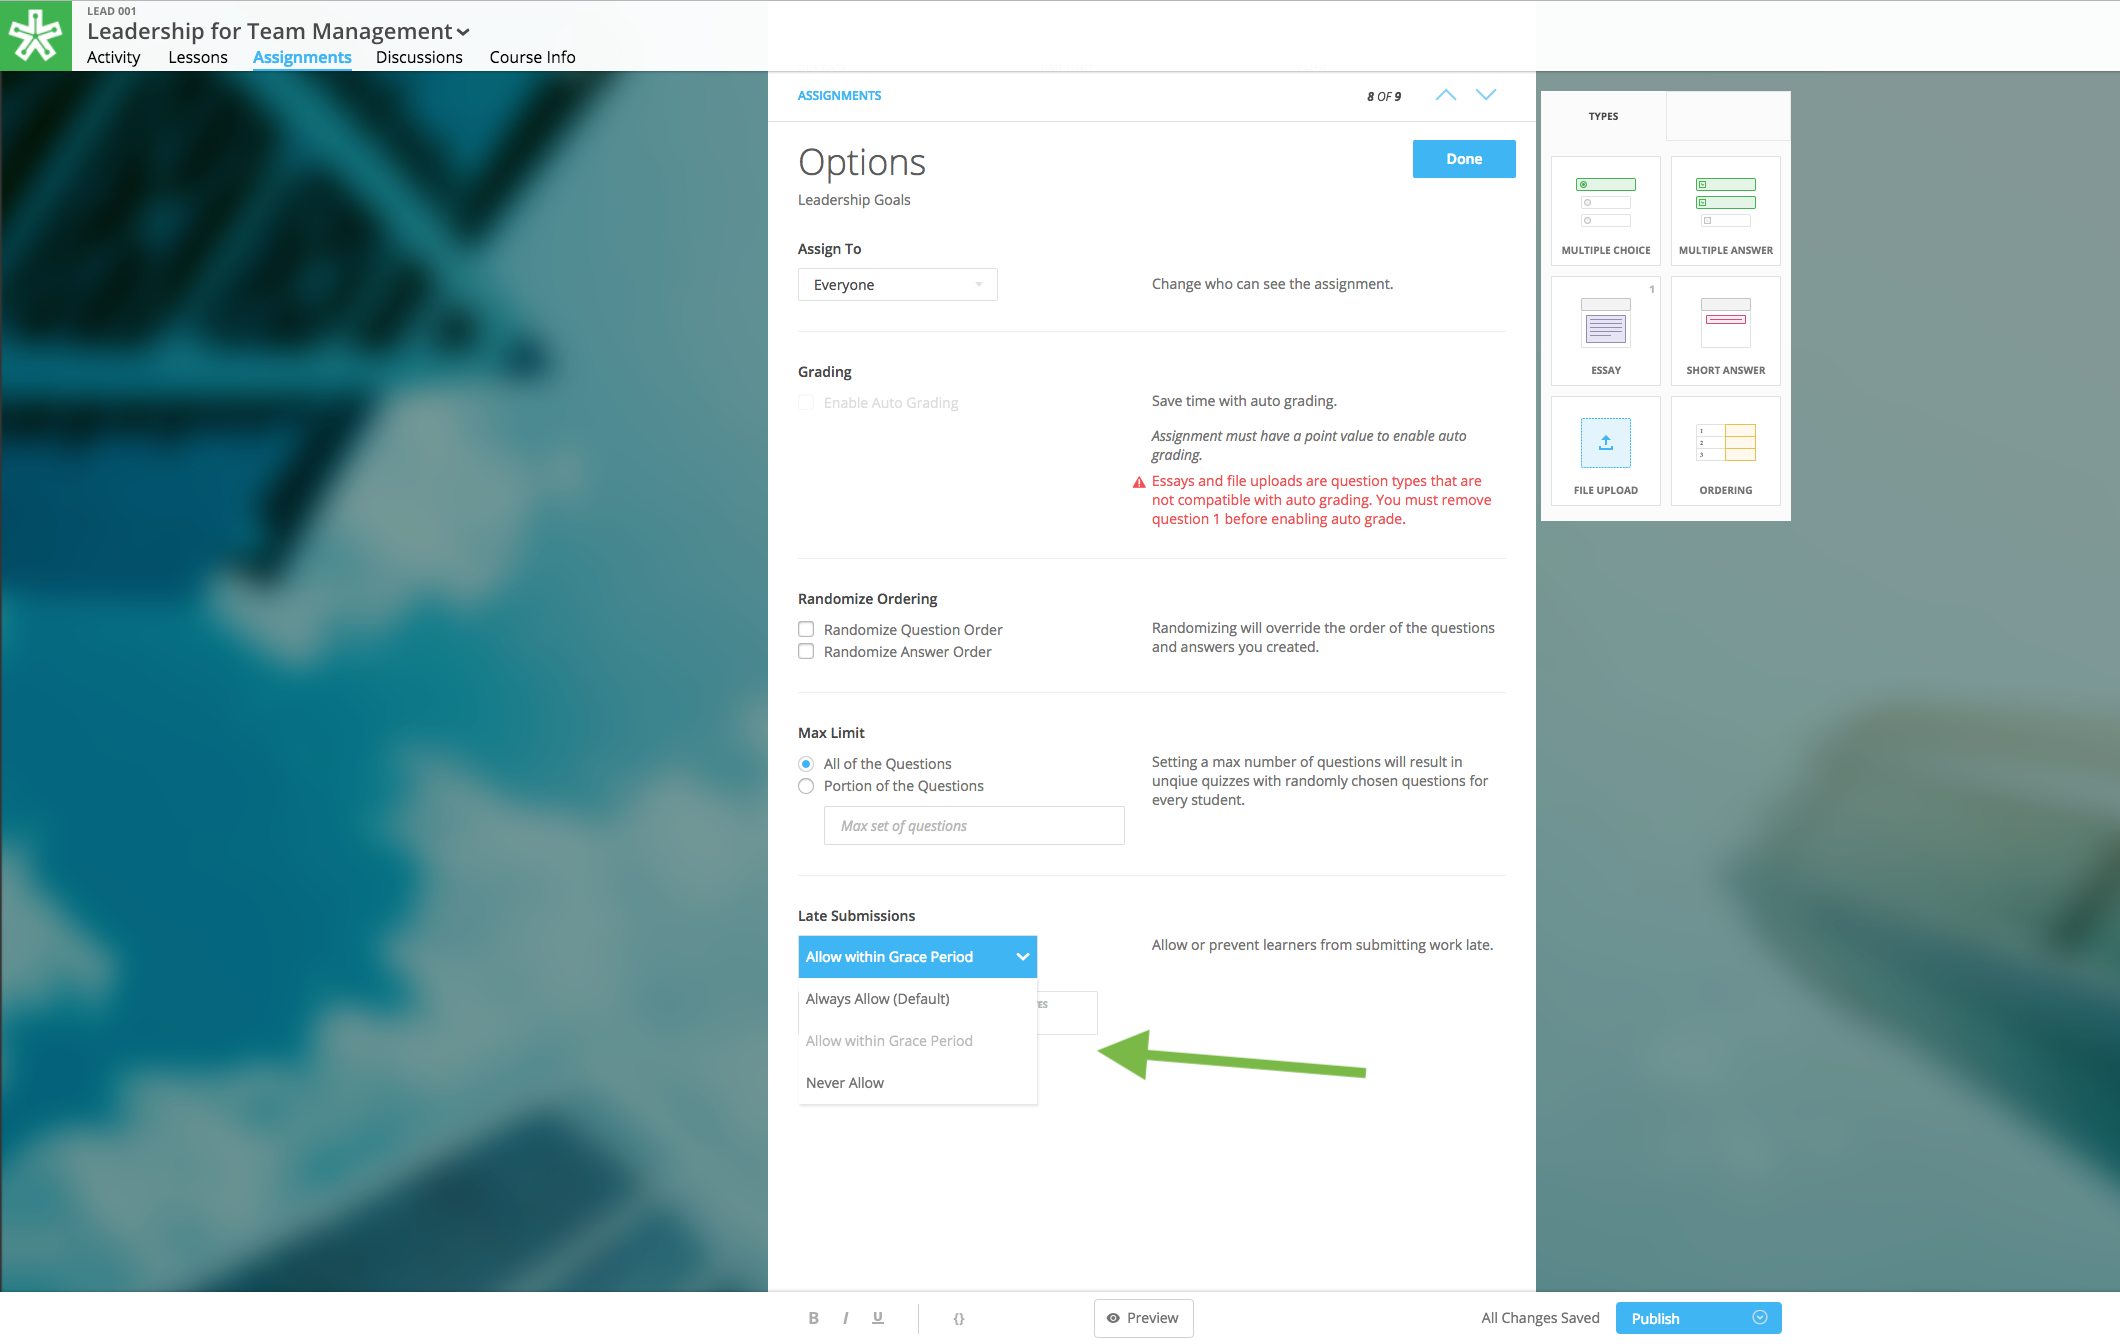
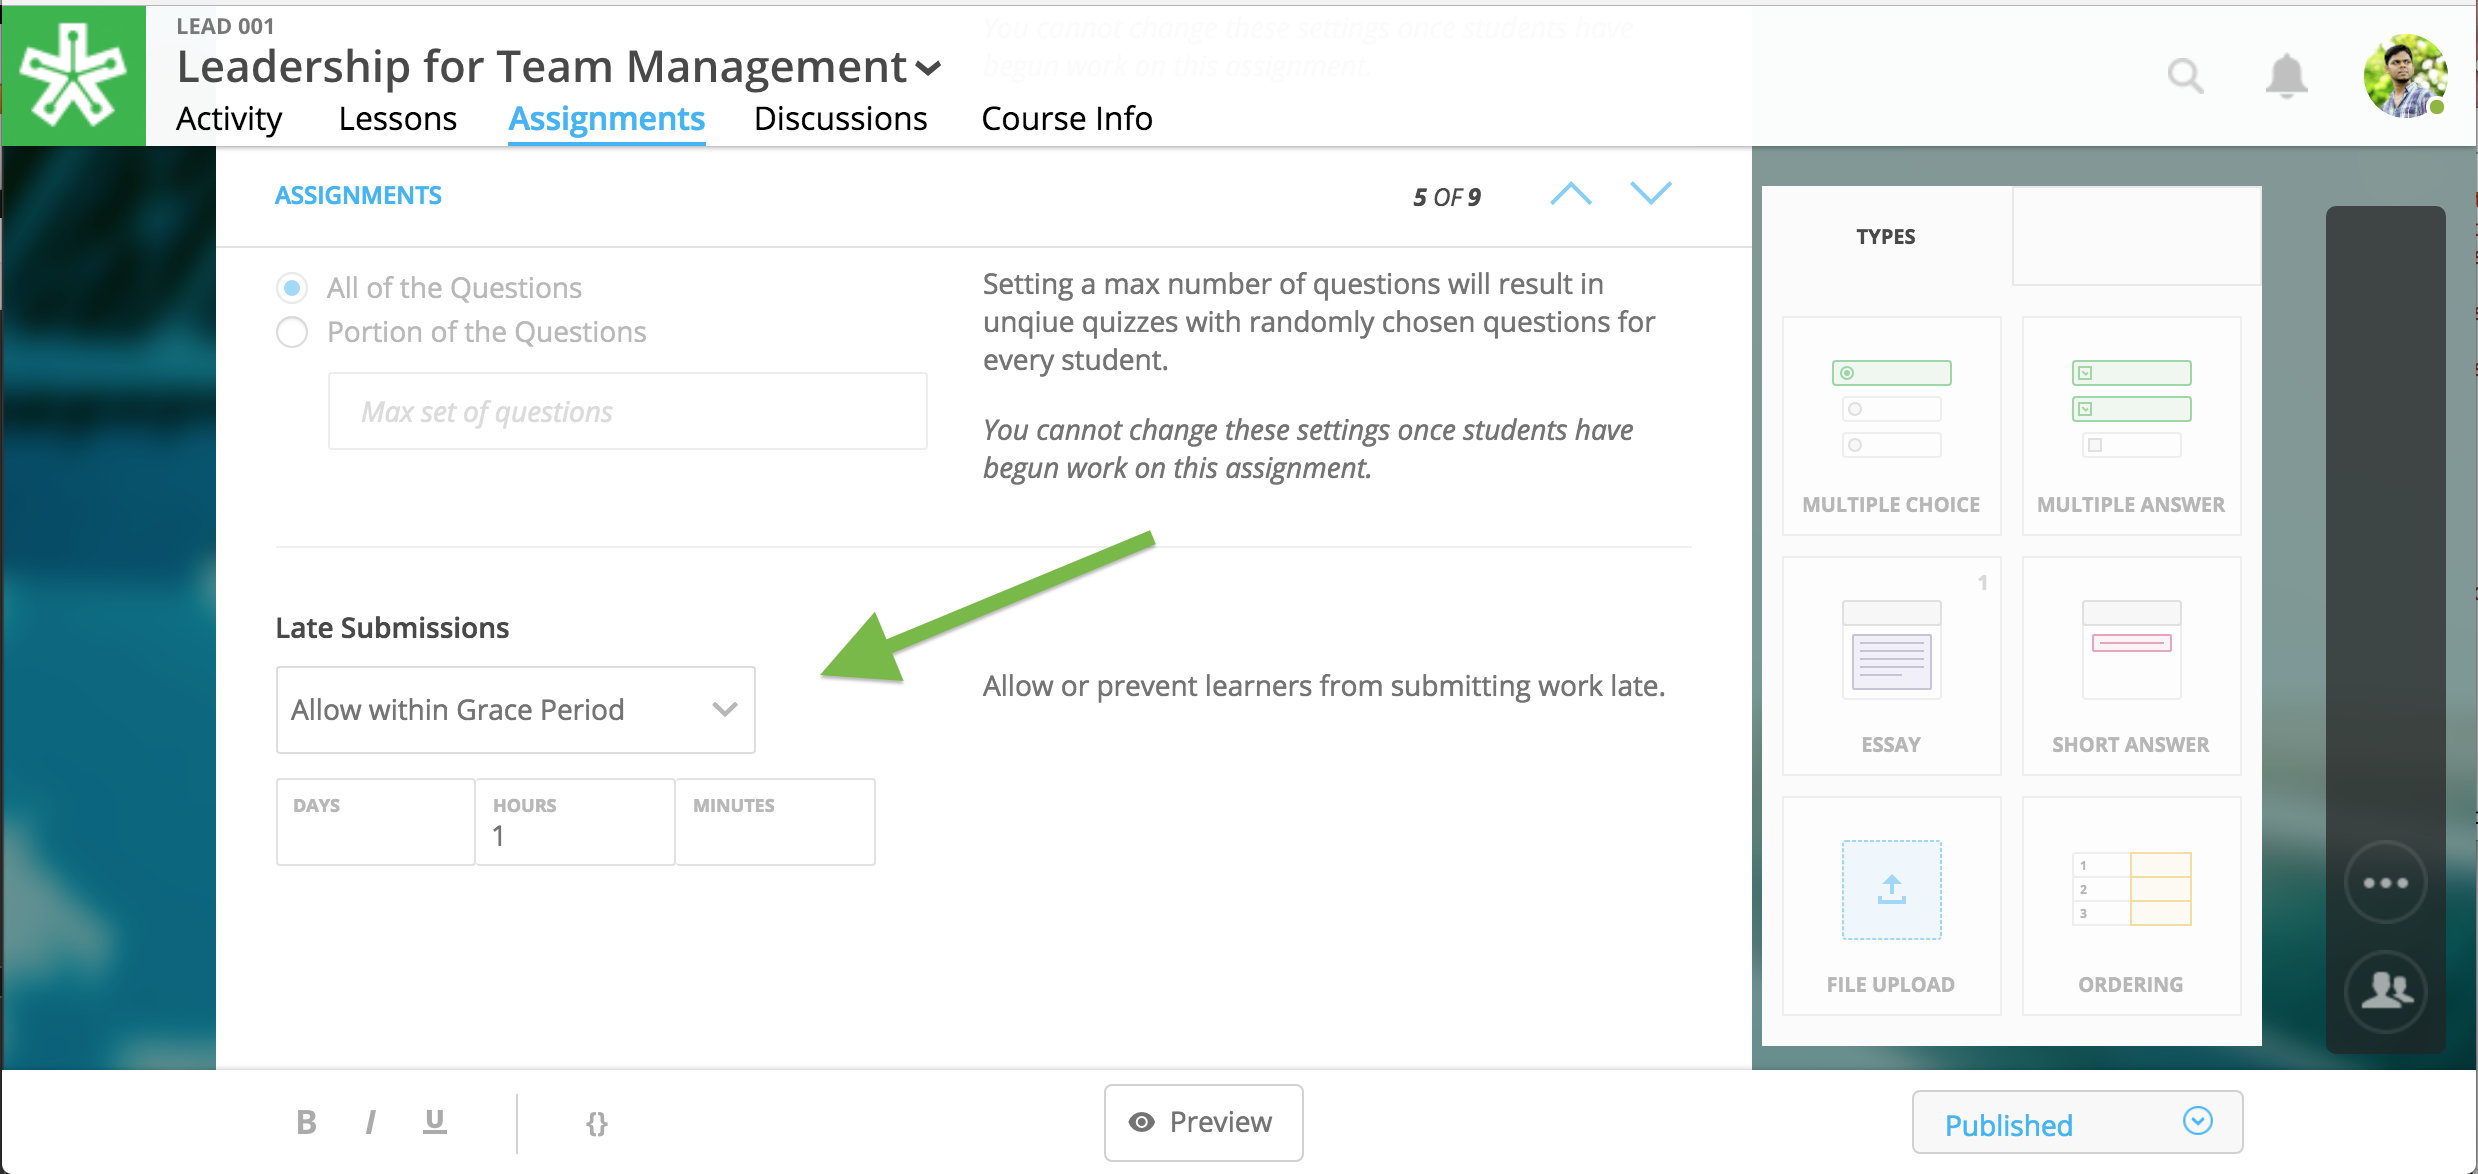
Copyedits assignment submission

diff --git a/releases/2018releases.rst b/releases/2018releases.rst
@@ -12,10 +12,16 @@ Course Instructors now have the ability to restrict submissions to an assignment
 
 After the due date, the learner can still view the assignment, but the assignment will not allow submissions. 
 
+**To restrict submissions or add a grace period:**
+
 1. While creating/editing assignment, add a due date.
 2. Select the “Options” button.
 3. Navigate down to the bottom section labeled “Late Submissions.”
-4. Select the dropdown labeled “Allow within Grace Period” and set a preferred time.
+4. Select the dropdown.
+
+   - **To Restrict Access Based on Due Date:** Select "Never Allow" to restrict submissions to only before due date.
+   - **To Restrict Access with Grace Period:** Select the "Allow within Grace Period" to allow submissions only past the due date by a defined amount of time. Then, define the amount of time you'd like to allow.
+
 5. Click the “Done” button to save your changes.
 
 .. image:: images/restrictedsub.png
